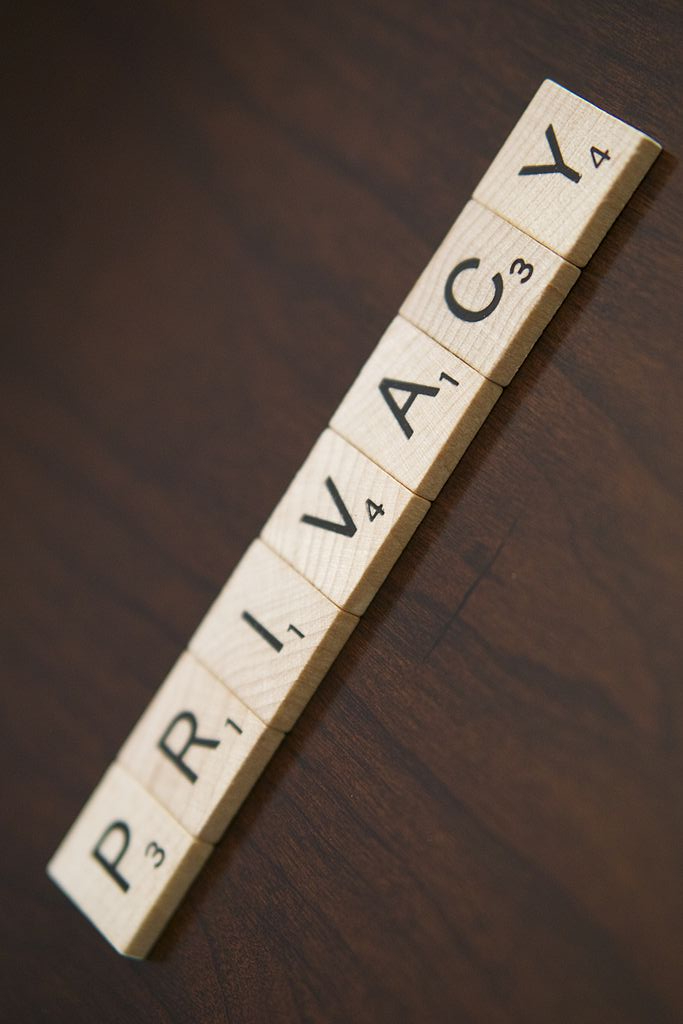
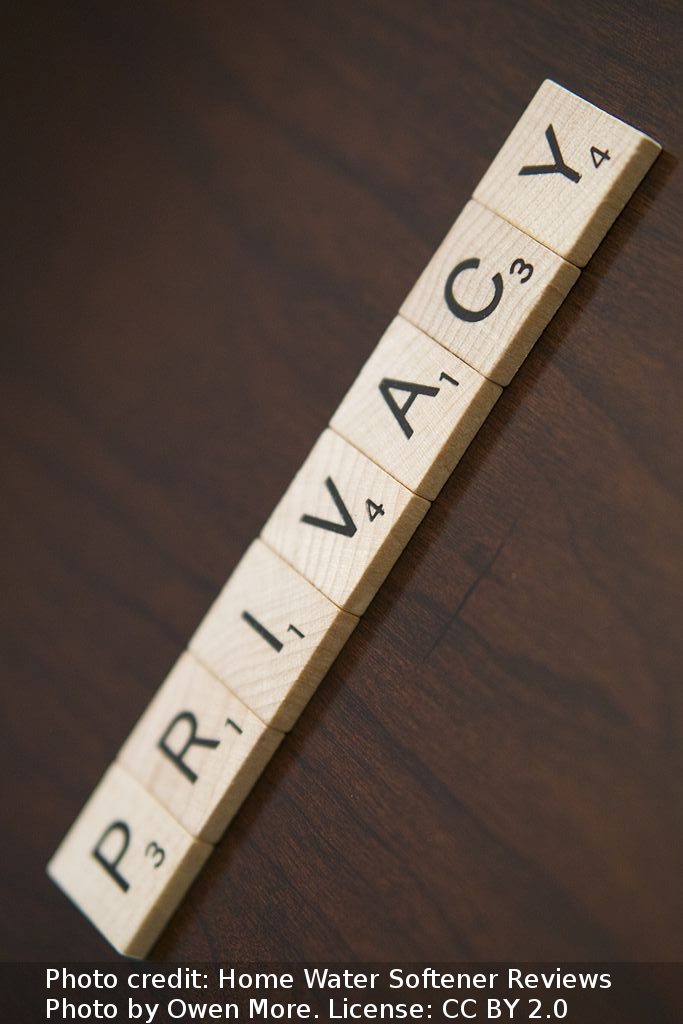
- Change image description - Add doubleclick event to feature tiles

Changed region(s): [[0.0615, 0.9375, 0.8917, 1.0]]

diff --git a/index.html b/index.html
@@ -141,7 +141,7 @@
                                     <p class="description">The simple reasons why you will like the app.<span class="visible-xxs"><br>Click them to get more infos!</span></p>
 
                                     <div class="row">
-                                        <a class="change-slide" onclick="gallery_slide(1)">
+                                        <a class="change-slide" onclick="gallery_slide(1,false)" ondblclick="gallery_slide(1,true)">
                                             <div class="col-sm-6 col-xs-12" onclick="collapseDescription('#ytb-videos-des')">
                                                 <div class="icon">
                                                     <p><i class="fa fa-play fa-2x" aria-hidden="true"></i></p>
@@ -152,7 +152,7 @@
                                                 </div>
                                             </div>
                                         </a>
-                                        <a class="change-slide" onclick="gallery_slide(1)">
+                                        <a class="change-slide" onclick="gallery_slide(1,false)" ondblclick="gallery_slide(1,true)">
                                             <div class="col-sm-6 col-xs-12" onclick="collapseDescription('#ext-privacy-des')">
                                                 <div class="icon">
                                                     <p><i class="fa fa-lock fa-3x" aria-hidden="true"></i></p>
@@ -166,7 +166,7 @@
                                     </div>
 
                                     <div class="row">
-                                        <a class="change-slide" onclick="gallery_slide(2)">
+                                        <a class="change-slide" onclick="gallery_slide(2,false)" ondblclick="gallery_slide(2,true)">
                                             <div class="col-sm-6 col-xs-12" onclick="collapseDescription('#bg-player-des')">
                                                 <div class="icon">
                                                     <p><i class="fa fa-volume-up fa-2x" aria-hidden="true"></i></p>
@@ -177,7 +177,7 @@
                                                 </div>
                                             </div>
                                         </a>
-                                        <!--<a class="change-slide" onclick="gallery_slide(1)">-->
+                                        <!--<a class="change-slide" onclick="gallery_slide(1,false)" ondblclick="gallery_slide(2,true)">-->
                                             <div class="col-sm-6 col-xs-12" onclick="collapseDescription('#ad-free-des')">
                                                 <div class="icon">
                                                     <p>
@@ -196,7 +196,7 @@
                                     </div>
 
                                     <div class="row">
-                                        <a class="change-slide" onclick="gallery_slide(3)">
+                                        <a class="change-slide" onclick="gallery_slide(3,false)" ondblclick="gallery_slide(3,true)">
                                             <div class="col-sm-6 col-xs-12" onclick="collapseDescription('#download-des')">
                                                 <div class="icon">
                                                     <p><i class="fa fa-download fa-2x" aria-hidden="true"></i></p>
@@ -207,7 +207,7 @@
                                                 </div>
                                             </div>
                                         </a>
-                                        <a class="change-slide" onclick="gallery_slide(4)">
+                                        <a class="change-slide" onclick="gallery_slide(4,false)" ondblclick="gallery_slide(4,true)">
                                             <div class="col-sm-6 col-xs-12" onclick="collapseDescription('#open-src-des')">
                                                 <div class="icon">
                                                     <p class="fa-eye-wrapper"><i class="fa fa-eye fa-2x" aria-hidden="true" style="font-size: 2.5em"></i></p>
@@ -221,7 +221,7 @@
                                     </div>
 
                                     <div class="row">
-                                        <!--<a class="change-slide" onclick="gallery_slide(1)">-->
+                                        <!--<a class="change-slide" onclick="gallery_slide(1,false)" ondblclick="gallery_slide(1,true)">-->
                                             <div class="col-sm-6 col-xs-12" onclick="collapseDescription('#leightweight-des')">
                                                 <div class="icon">
                                                     <p><img src="img/feather.png" class="fa fa-lg" /></p>
@@ -232,7 +232,7 @@
                                                 </div>
                                             </div>
                                         <!--</a>-->
-                                        <a class="change-slide" onclick="gallery_slide(4)">
+                                        <a class="change-slide" onclick="gallery_slide(4,false)" ondblclick="gallery_slide(4,true)">
                                             <div class="col-sm-6 col-xs-12" onclick="collapseDescription('#free-des')">
                                                 <div class="icon">
                                                     <p>
@@ -262,10 +262,7 @@
                                 <div class="container">
                                     <div class="details-flex">
                                         <div class="details-image">
-                                            <figure>
-                                                <img src="img/Privacy_written_in_tiles.jpg"/>
-                                                <figcaption>Photo credit: <a href="www.homewatersoftenerreviews.com">Home Water Softener Reviews</a>. License: <a href="https://creativecommons.org/licenses/by/2.0/">CC BY 2.0</a></figcaption>
-                                            </figure>
+                                            <img src="img/Privacy_written_in_tiles.jpg"/>
                                         </div>
                                         <div class="details-text container">
                                             <h3>Extended Privacy</h3>

diff --git a/css/gallery.css b/css/gallery.css
@@ -60,18 +60,6 @@
     max-height: 350px;
     display: initial;
 }
-.feature-details .details-image figure {
-    position: relative;
-}
-.feature-details .details-image figure > figcaption {
-    position: absolute;
-    bottom: 0;
-    right: 0;
-    left:0;
-    background: rgba(120,120,120,0.5);
-    font-size: 10px;
-    padding: 1px 3px;
-}
 .feature-details .details-image.image-slideshow img {
     display: none;
 }

diff --git a/js/gallery.js b/js/gallery.js
@@ -21,8 +21,9 @@ $(window).on("orientationchange load resize", function () {
     gallery_resize();
 });
 
-function gallery_slide(s){
-    if($(window).width() > 543)
+
+function gallery_slide(s,dbclick){
+    if($(window).width() > 543 || dbclick)
         slider.goToSlide(s);
 }
 
